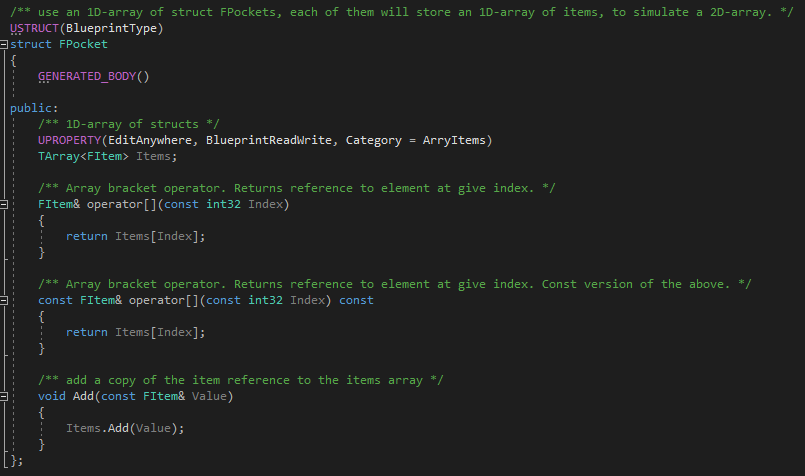
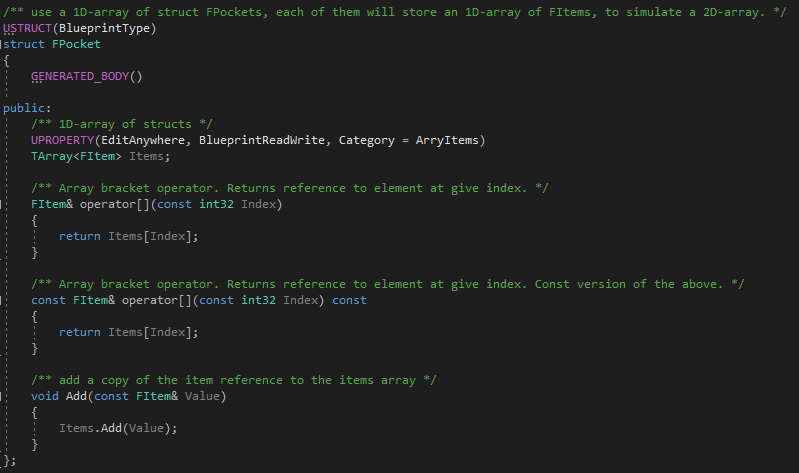
-update images and comments

diff --git a/Dynamic2DArray/Source/Dynamic2DArray/Public/ProjectUtils.h b/Dynamic2DArray/Source/Dynamic2DArray/Public/ProjectUtils.h
@@ -16,7 +16,7 @@ public:
 	bool isEquipped = false;
 };
 
-/** use an 1D-array of struct FPockets, each of them will store an 1D-array of items, to simulate a 2D-array. */
+/** use a 1D-array of struct FPockets, each of them will store an 1D-array of FItems, to simulate a 2D-array. */
 USTRUCT(BlueprintType)
 struct FPocket
 {
